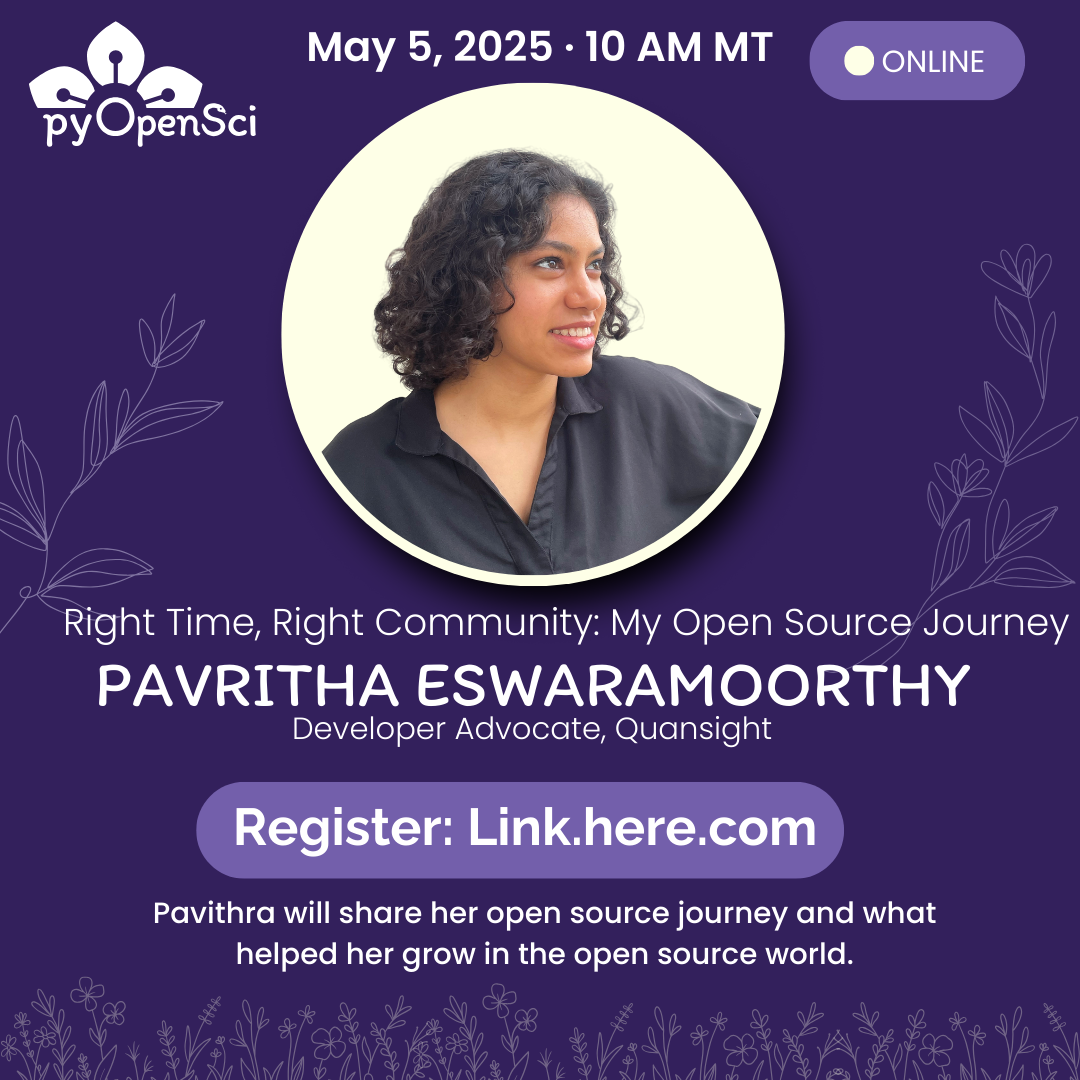
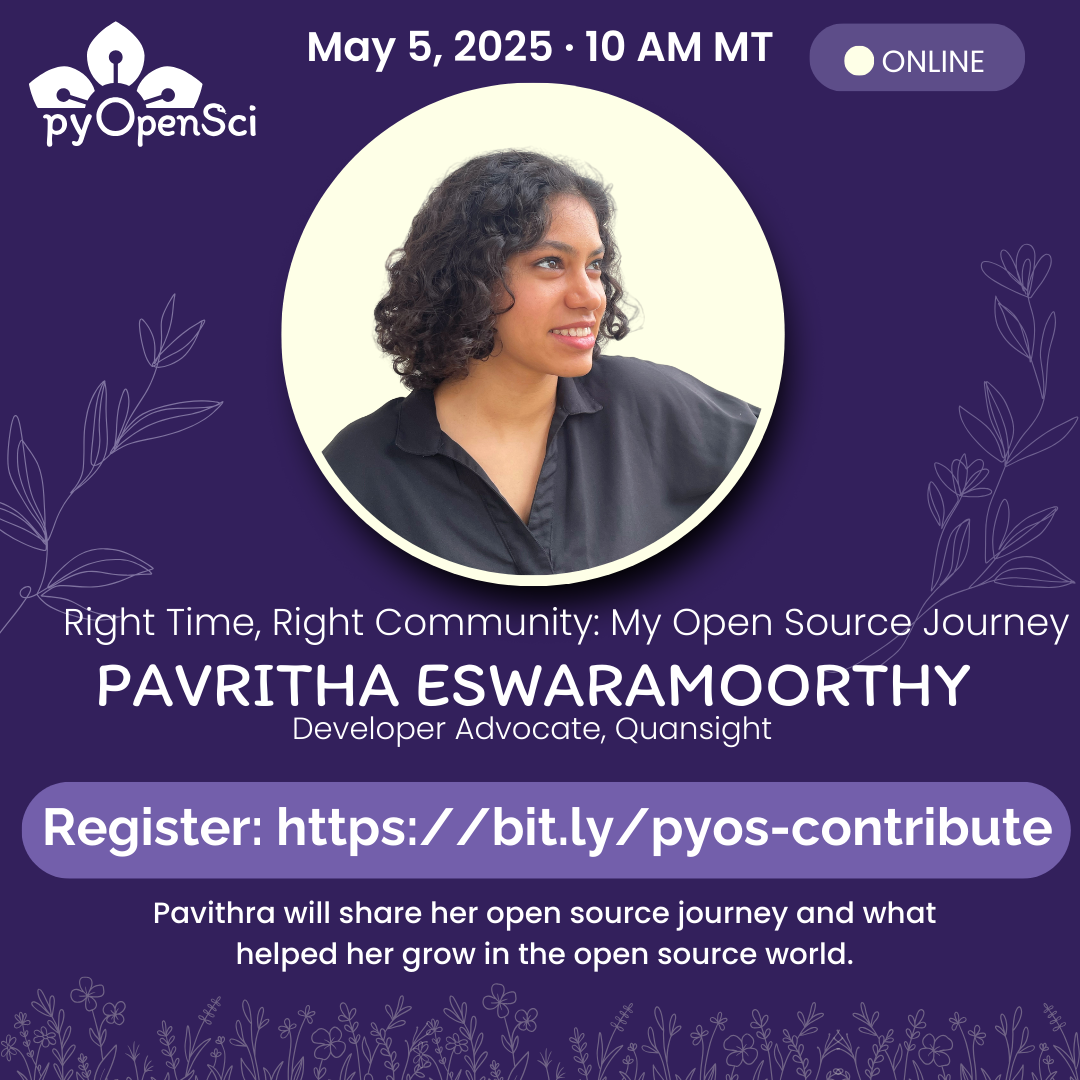
feat: update graphic and add url

Changed region(s): [[0.0, 0.7028, 1.0, 0.825], [0.7333, 0.0, 0.9472, 0.0917]]

diff --git a/_posts/events/2025-04-22-community-call-contribute-open-source.md b/_posts/events/2025-04-22-community-call-contribute-open-source.md
@@ -21,10 +21,10 @@ comments: true
 Open Source Voices: *A community call for learning, sharing, and growing together*
 
 * **When:** Monday, 5 May 2025 @ 10 am Mountain Time [(click this link to find the time and date in your timezone)](https://www.timeanddate.com/worldclock/fixedtime.html?msg=Open+Source+Voices%3A+pyOpenSci+Contribute+Week&iso=20250505T10&p1=75&ah=1)
-* **Where:** Online via Google Meet
+* **Where:** Online via Google Meet (Register for link)
 * **Speaker:** Pavithra Eswaramoorthy, Developer Advocate, Quansight
 
-[<i class="fa-regular fa-circle-right"></i> Register here](){: .btn .btn--success .text-center }
+[<i class="fa-regular fa-circle-right"></i> Register here](https://bit.ly/pyos-contribute){: .btn .btn--success .text-center }
 
 <figure class="align-center">
     <picture>
@@ -36,9 +36,9 @@ Open Source Voices: *A community call for learning, sharing, and growing togethe
 We’re kicking off the week with a special Open Source Voices session! Pavithra will share her open source journey and what helped her grow in the open source world.
 
 ### Right Time, Right Community: My OSS Journey
-Pavithra Eswaramoorthy, Developer Advocate, Quansight
 
 Pavithra Eswaramoorthy is a Developer Advocate at Quansight, where she works to improve the developer experience and community engagement for several open source projects in the PyData community. She has been involved in the open source community for over five years. Currently, she is part of the core team for the Bokeh visualization library and Nebari (JupyterHub-based data science platform).  In her spare time, she enjoys a good book and hot coffee.
 
 ## All are welcome
-We welcome anyone and everyone to join and learn more about contributing to open source. This is a space for learning, questions, and community. Come and listen, get inspired, and meet others who are learning about open source. Then stick around for an introduction to our contribute to open source online learning week.
+
+We welcome anyone and everyone to join and learn more about contributing to open source. This is a space for learning, questions, and community. Come and listen, get inspired, and meet others learning about open source.
